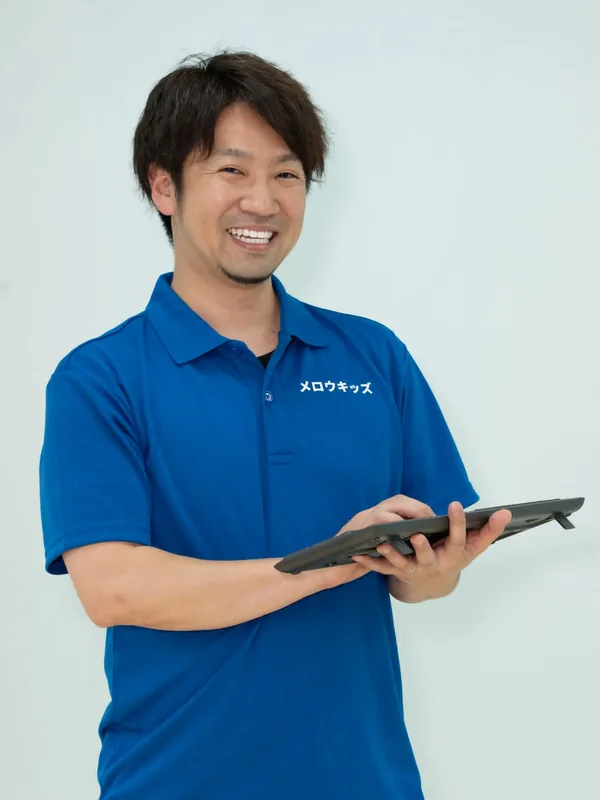
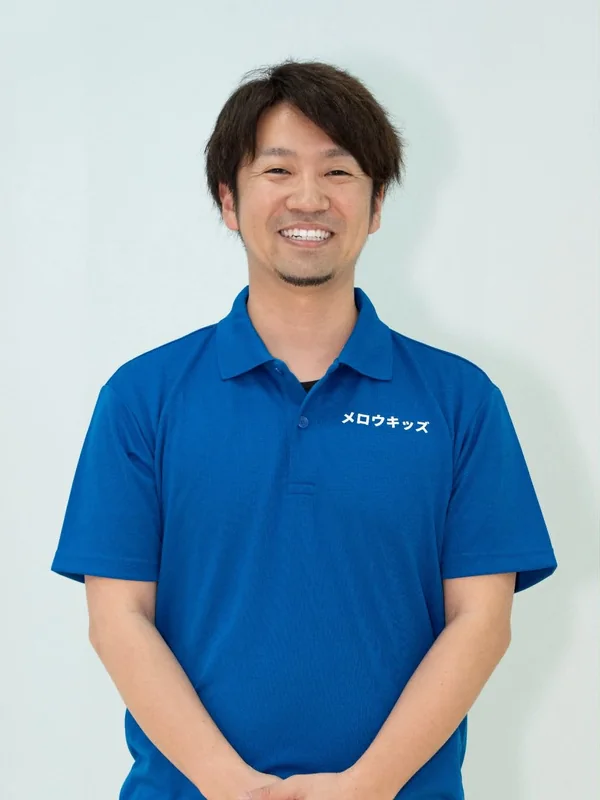
Add files via upload

diff --git a/recruit.html b/recruit.html
@@ -47,16 +47,15 @@
   <section class="section" id="guideline">
     <div class="wrap narrow">
       <div class="sec-head"><span class="eyebrow">Guideline</span><h2 class="h2">募集要項</h2></div>
-      <p class="muted" style="margin:-8px 0 8px;color:#c0392b;font-size:13.5px">※ 赤字（要確認）の項目は、修吾さんに正確な内容をご確認のうえ差し替えます。</p>
       <table class="info-table">
-        <tr><th scope="row">雇用形態</th><td><span style="color:#c0392b">［正社員／パート・アルバイト など｜要確認］</span></td></tr>
+        <tr><th scope="row">雇用形態</th><td>正社員・パート</td></tr>
         <tr><th scope="row">業務内容</th><td>未就学のお子さんへの児童発達支援（個別・小集団の短時間集中療育）、保護者支援、送迎業務、記録・環境整備 など</td></tr>
         <tr><th scope="row">勤務地</th><td>鹿児島県奄美市名瀬永田町14-1（オガミヤマボウルビル内）</td></tr>
-        <tr><th scope="row">勤務時間</th><td><span style="color:#c0392b">［8:30–17:00 を基本に応相談｜要確認］</span></td></tr>
+        <tr><th scope="row">勤務時間</th><td>正社員：8:30–17:00／パート：応相談</td></tr>
         <tr><th scope="row">休日</th><td>土曜・日曜・年末年始（施設の休業日に準じます）</td></tr>
-        <tr><th scope="row">給与</th><td><span style="color:#c0392b">［月給／時給 ○○円～｜要確認］</span></td></tr>
-        <tr><th scope="row">手当・福利厚生</th><td><span style="color:#c0392b">［通勤手当・資格手当・昇給・賞与・社会保険 など｜要確認］</span></td></tr>
-        <tr><th scope="row">応募資格</th><td>保育士／作業療法士／理学療法士／教員免許 等、発達支援に関わる資格をお持ちの方。子どもと関わるお仕事に興味があり、体力に自信のある方。<br><span style="color:#c0392b">［細かな条件は要確認］</span></td></tr>
+        <tr><th scope="row">給与</th><td>正社員：月給 170,000円〜（試用期間あり）<br>パート：時給 1,050円〜</td></tr>
+        <tr><th scope="row">手当・福利厚生</th><td>社会保険／通勤手当／研修制度／資格取得支援制度／車・バイク通勤可／制服貸与（ポロシャツ）／社員登用あり／副業OK／キャリア支援／社員向けピラティス</td></tr>
+        <tr><th scope="row">応募資格</th><td>保育士・児童指導員に関わる資格をお持ちの方。有資格者であれば、療育での経験は問いません。子どもたちと全力で遊べる方、反求諸己（はんきゅうしょこ）の精神をお持ちの方。</td></tr>
       </table>
     </div>
   </section>
@@ -86,19 +85,19 @@
   <section class="section" id="mentality">
     <div class="wrap narrow">
       <div class="sec-head"><span class="eyebrow">Mentality</span><h2 class="h2">求める人物像</h2></div>
-      <p class="muted" style="margin:-8px 0 20px;color:#c0392b;font-size:13.5px">※ 下記はドラフトです。修吾さんの言葉で調整します。</p>
+      <p class="muted" style="margin:-8px 0 20px">私たちが大切にしている、3つの考え方です。</p>
       <div class="stack gap-16">
         <div class="card stack gap-8">
-          <h3 class="h3" style="margin:0">01　子どもと全力で関われる方</h3>
-          <p class="muted" style="margin:0">遊びは子どもの大切な栄養源です。子どもに興味を持ち、一緒に全力で遊べる方を歓迎します。</p>
+          <h3 class="h3" style="margin:0">① 自分のキゲンを自分で取れる方</h3>
+          <p class="muted" style="margin:0">私たちは、生きづらさを抱えるお子さまやご家族と関わる仕事をしています。そのためには、自分自身がよい状態でいることがとても大切です。自分の状態を理解して、適切に対処できる方を歓迎します。</p>
         </div>
         <div class="card stack gap-8">
-          <h3 class="h3" style="margin:0">02　学び続けられる方</h3>
-          <p class="muted" style="margin:0">療育は日々学びの連続です。失敗を恐れず挑戦し、学んだことを仲間や保護者に手渡していける方。</p>
+          <h3 class="h3" style="margin:0">② 子ども達のために学び続けられる方</h3>
+          <p class="muted" style="margin:0">シマには「物事ぬ知り果てやねん」という言葉があります。ひとは生涯勉強が必要で、学びに終わりはない、という意味が込められています。単に「子どもが可愛い」ではなく、子どものために毎日の支援を真摯に振り返り、学び続けられる方を歓迎します。</p>
         </div>
         <div class="card stack gap-8">
-          <h3 class="h3" style="margin:0">03　チームで支え合える方</h3>
-          <p class="muted" style="margin:0">担当制ではなく、スタッフ間で情報を共有しながら関わります。自分を開示し、助け合える方。</p>
+          <h3 class="h3" style="margin:0">③ 職場の文化にフィットできる方</h3>
+          <p class="muted" style="margin:0">子どもや家族にとって、支援者である私たちは「環境」になります。環境は、介入効果に大きな影響を及ぼす要因のひとつです。メロウキッズにはメロウキッズの信念・文化があり、いくら経験やスキルがあっても、チームとして連動できないと逆効果になってしまいます。チームメンバーと良好な関係を築ける仲間を歓迎します。</p>
         </div>
       </div>
     </div>
@@ -129,12 +128,11 @@
     <div class="wrap narrow">
       <div class="sec-head"><span class="eyebrow">Flow</span><h2 class="h2">採用の流れ</h2></div>
       <ol class="stack gap-16" style="list-style:none;padding:0;margin:0;counter-reset:step">
-        <li class="flowstep"><div class="dot" aria-hidden="true">1</div><div class="card" style="flex:1"><h3 class="h3">見学・お問い合わせ</h3><p class="muted" style="margin:8px 0 0">まずはお気軽に、見学やお問い合わせから。施設の雰囲気を見にいらしてください。</p></div></li>
-        <li class="flowstep"><div class="dot" aria-hidden="true">2</div><div class="card" style="flex:1"><h3 class="h3">体験（半日〜1日）</h3><p class="muted" style="margin:8px 0 0">実際の療育の様子を体験していただきます。お仕事のイメージを掴んでください。</p></div></li>
-        <li class="flowstep"><div class="dot" aria-hidden="true">3</div><div class="card" style="flex:1"><h3 class="h3">面接</h3><p class="muted" style="margin:8px 0 0">これまでのご経験や、これからやってみたいことなどをお聞かせください。</p></div></li>
-        <li class="flowstep"><div class="dot" aria-hidden="true">4</div><div class="card" style="flex:1"><h3 class="h3">選考結果のご連絡</h3><p class="muted" style="margin:8px 0 0">選考の結果を、後日ご連絡いたします。</p></div></li>
+        <li class="flowstep"><div class="dot" aria-hidden="true">1</div><div class="card" style="flex:1"><h3 class="h3">お問い合わせ</h3><p class="muted" style="margin:8px 0 0">HP・電話・メールのいずれかにてご連絡ください。</p></div></li>
+        <li class="flowstep"><div class="dot" aria-hidden="true">2</div><div class="card" style="flex:1"><h3 class="h3">見学 or 体験</h3><p class="muted" style="margin:8px 0 0">ご希望の方は、実際に事業所の様子をご覧になってください。</p></div></li>
+        <li class="flowstep"><div class="dot" aria-hidden="true">3</div><div class="card" style="flex:1"><h3 class="h3">面接</h3><p class="muted" style="margin:8px 0 0">日程調整を行った後、面接を行います。履歴書と職務経歴書をご持参のうえ、お越しくださいませ。</p></div></li>
+        <li class="flowstep"><div class="dot" aria-hidden="true">4</div><div class="card" style="flex:1"><h3 class="h3">選考結果のご連絡</h3><p class="muted" style="margin:8px 0 0">後日、選考結果をお知らせいたします。</p></div></li>
       </ol>
-      <p class="muted" style="margin:16px 0 0;color:#c0392b;font-size:13.5px">※ 採用フローはドラフトです。実際の流れに合わせて調整します。</p>
     </div>
   </section>
 

diff --git a/about.html b/about.html
@@ -31,7 +31,6 @@
           <h2 class="h2">代表からのメッセージ</h2>
           <p class="lead">メロウキッズのホームページをご覧いただき、ありがとうございます。</p>
           <p>私は、管理者・児童発達支援管理責任者の平城 修吾（ひらぎ しゅうご）と申します。</p>
-          <p style="margin:4px 0 0;font-family:var(--font-head)">管理者／児童発達支援管理責任者　<b>平城 修吾</b></p>
           <a class="btn btn--ghost btn--sm" href="staff-shugo.html" style="align-self:flex-start">代表のプロフィールを見る →</a>
         </div>
         <div style="position:relative">
@@ -55,7 +54,10 @@
         <h3 style="font-family:var(--font-head);font-size:clamp(22px,3.4vw,28px);color:var(--c-primary-dd);border-bottom:2px solid var(--c-primary-soft);padding-bottom:10px;margin:24px 0 0">おわりに</h3>
         <p>メロウアイランドを目指して、メロウキッズでは地域みんなで学べるセミナーを定期的に開催しています。一事業所だけで独占することなく、シマのみんなで学んで助け合える関係性づくりを目的としています。少しでも気になるものがありましたら、是非ともご参加ください。</p>
         <p>メロウキッズは「子育てをもっと豊かに」を合言葉に、精進してまいります。まだまだ至らない点も多い小さな事業所ですが、どうぞよろしくお願い申し上げます。</p>
-        <p style="margin:10px 0 0;font-family:var(--font-head)">管理者／児童発達支援管理責任者　<b>平城 修吾</b></p>
+        <div style="margin:16px 0 0">
+          <p style="margin:0;font-family:var(--font-head);font-size:18px"><b>平城 修吾</b></p>
+          <p class="muted" style="margin:6px 0 0;font-size:13px;line-height:1.95">Mellow Amami LLC.　代表社員<br>メロウキッズ　管理者／児童発達支援管理責任者<br>作業療法士／公認心理師／キャリアコンサルタント<br>作業療法学修士／スクールカウンセラー<br>（一社）鹿児島県作業療法士協会 代議員<br>（公社）日本青年会議所 九州地区鹿児島ブロック協議会 副会長<br>（一社）奄美大島青年会議所 専務理事<br>（独）労働者健康安全機構 鹿児島県産業保健総合支援センター メンタルヘルス対策・両立支援促進員</p>
+        </div>
       </div>
     </div>
   </section>

diff --git a/site.css b/site.css
@@ -97,10 +97,6 @@ h1,h2,h3,h4{font-family:var(--font-head);font-weight:700;line-height:1.45;margin
 .badge-open .seg--date{background:var(--c-accent-btn);color:#fff;font-family:var(--font-en);border-radius:0 var(--pill) var(--pill) 0}
 .badge-open .seg--date b{font-family:var(--font-head);font-size:1.15em}
 .badge-open .seg--recruit{background:#fff;color:var(--c-accent-d);font-family:var(--font-head)}
-@media (prefers-reduced-motion: no-preference){
-  .badge-open{animation:badge-bob 3.4s ease-in-out infinite}
-  @keyframes badge-bob{0%,100%{transform:rotate(-1.5deg) translateY(0)}50%{transform:rotate(-.6deg) translateY(-4px)}}
-}
 @media(max-width:560px){
   .badge-open{flex-direction:column;align-items:stretch;border-radius:20px;transform:rotate(-1deg)}
   .badge-open .seg{justify-content:center;padding:8px 16px}

diff --git a/contact.html b/contact.html
@@ -54,7 +54,7 @@
           </div>
           <div class="card stack gap-12">
             <div class="field-label" style="font-size:13px">アクセス</div>
-            <p class="muted" style="margin:0;font-size:14px">鹿児島県奄美市 …<br>平日 8:30–17:00 / 土 9:00–13:00</p>
+            <p class="muted" style="margin:0;font-size:14px">鹿児島県奄美市 …<br>平日 8:30–17:00</p>
             <a class="btn btn--ghost btn--sm" href="access.html" style="align-self:flex-start">地図を見る →</a>
           </div>
         </aside>